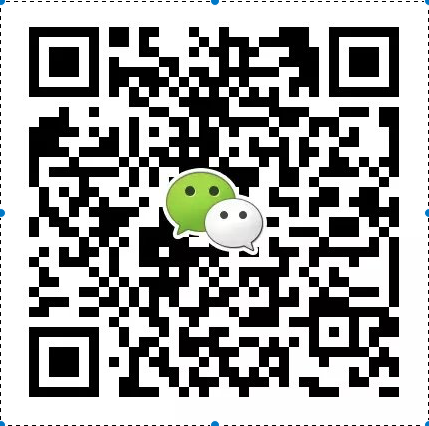
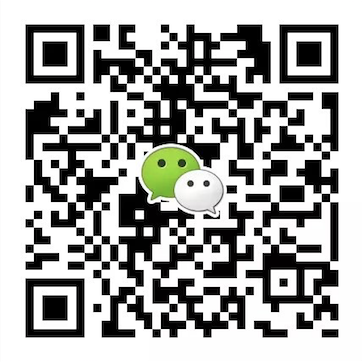
0.8
sffds

diff --git a/index.html b/index.html
@@ -60,7 +60,7 @@
 		<section class="profile_container cover step" id="profile" data-x="0" data-y="0">
 			<h1 class="cover"><span class="h1-text fg-bgc">个人简介</span><span class="h1-corner fg-bdc"></span></h1>
 			<figure class="me left">
-				<div id="myqr"></div>
+				<div id="myqr">扫我的二维码</div>
 				<div id="myimg"></div>
 			</figure>
 			<section class="personal-info right">

diff --git a/style.css b/style.css
@@ -811,7 +811,7 @@
     -ms-transform: rotatey(-180deg);
     transform: rotatey(-180deg);
     background-image: url("images/myqr.png");
-    background-size: 100% 100%;
+    background-size: 100% 80%;
     background-position: center bottom;
     font-weight: bold;
     text-align: center;
